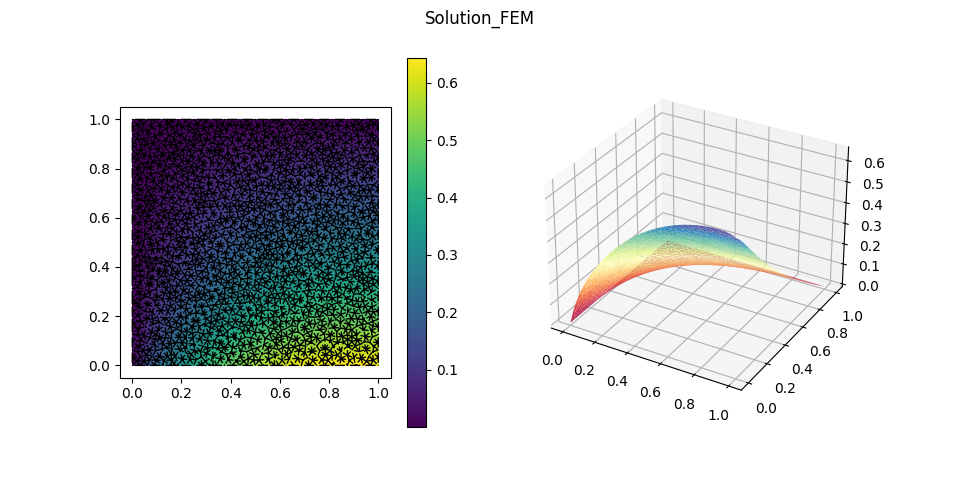
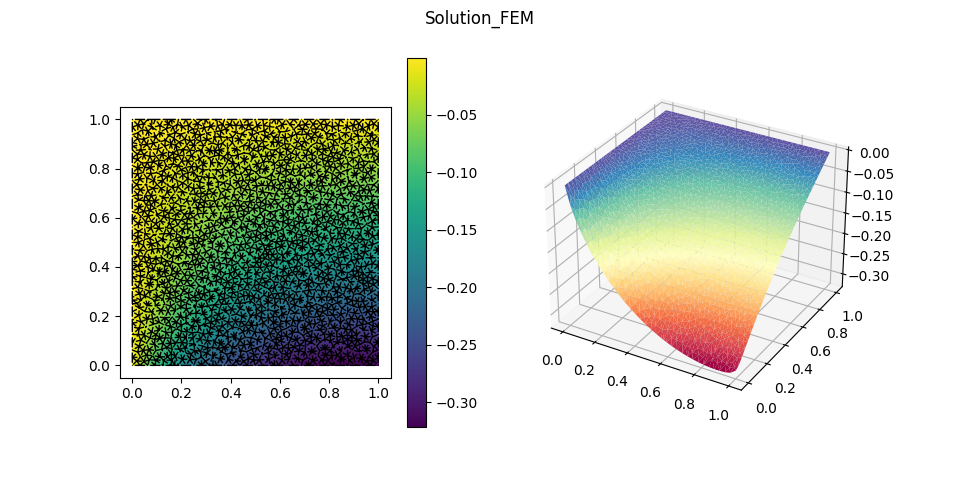
foto soluzioni belle

diff --git a/runall_funct.py b/runall_funct.py
@@ -51,7 +51,7 @@ tol  = 1.e-8
 
 ## PARAM SOL
 mu_1 = 1.
-mu_2 = -1.
+mu_2 = -.5
 
 ###Creazione mesh e spazio discreto
 os.chdir("CppToPython")
